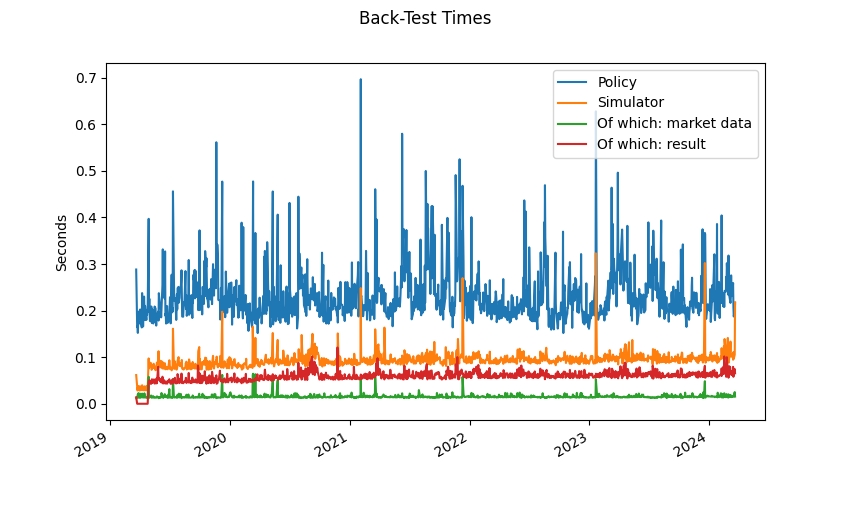
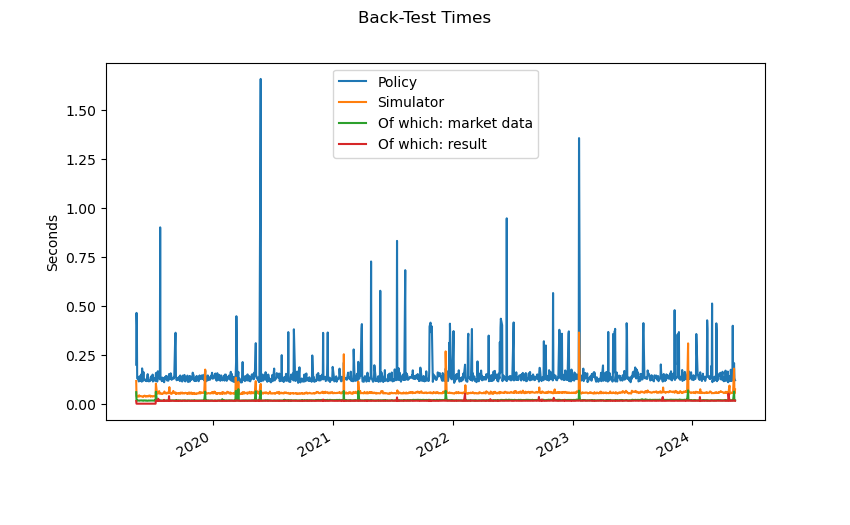
updated and re-run examples/timing.py

diff --git a/examples/timing.py b/examples/timing.py
@@ -34,13 +34,16 @@ job accounting for and reporting the time spent doing a back-test and in its
 various components. You can expect it will do even more granular reporting in
 future releases.
 
+The results shown below are obtained on a Linux workstation with the latest
+versions, at the time of writing, of most libraries.
+
 .. note::
 
     To reproduce what is shown here you should make sure that the first
     time this script is run there are no covariance matrices already saved
     for the historical market data used here. If you run it from scratch, that
     is OK, but if you re-run this script it will pick up the covariance
-    matrices already estimated. There is currently (Cvxportfolio ``1.3.0``) no
+    matrices already estimated. There is currently (Cvxportfolio ``1.3``) no
     easy way to remove caches other than manually deleting files in
     ``~/cvxportfolio_data``, which you can always safely do.
 """
@@ -67,7 +70,7 @@ if __name__ == '__main__':
     # number we had in the paper examples
     NUM_RISK_FACTORS = 15
 
-    # if you change this to 2 (quadratic model) the resulting problem is a QP
+    # if you change this to 2 (quadratic model) the resulting program is a QP
     # and can be solved faster
     TCOST_EXPONENT = 1.5
 
@@ -83,13 +86,19 @@ if __name__ == '__main__':
             cvx.LeverageLimit(3),
         ],
 
-        # You can select any CVXPY solver here to see how it affects
-        # performance of your particular problem. This one  is the default for
-        # this type of problems
-        solver='ECOS',
+        # You can select any CVXPY-interfaced solver here to see how it affects
+        # execution time of your particular program. Different solvers apply
+        # different roundings and other numerical heuristics; their solutions
+        # may also have (small) differences in other back-test statistics, such
+        # as Sharpe Ratio. This solver is the default open-source one for this
+        # type of programs, as of CVXPY 1.5.0. Other open-source solvers that
+        # work well for this type of programs are ECOS and SCS, and there are
+        # numerous commercial ones as well, see the CVXPY docs for a full list
+        # https://www.cvxpy.org/tutorial/solvers/index.html
+        solver='CLARABEL',
 
         # this is a CVXPY compilation flag, it is recommended for large
-        # optimization problems (like this one) but not for small ones
+        # optimization programs (like this one) but not for small ones
         ignore_dpp=True,
 
         # you can add any other cvxpy.Problem.solve option
